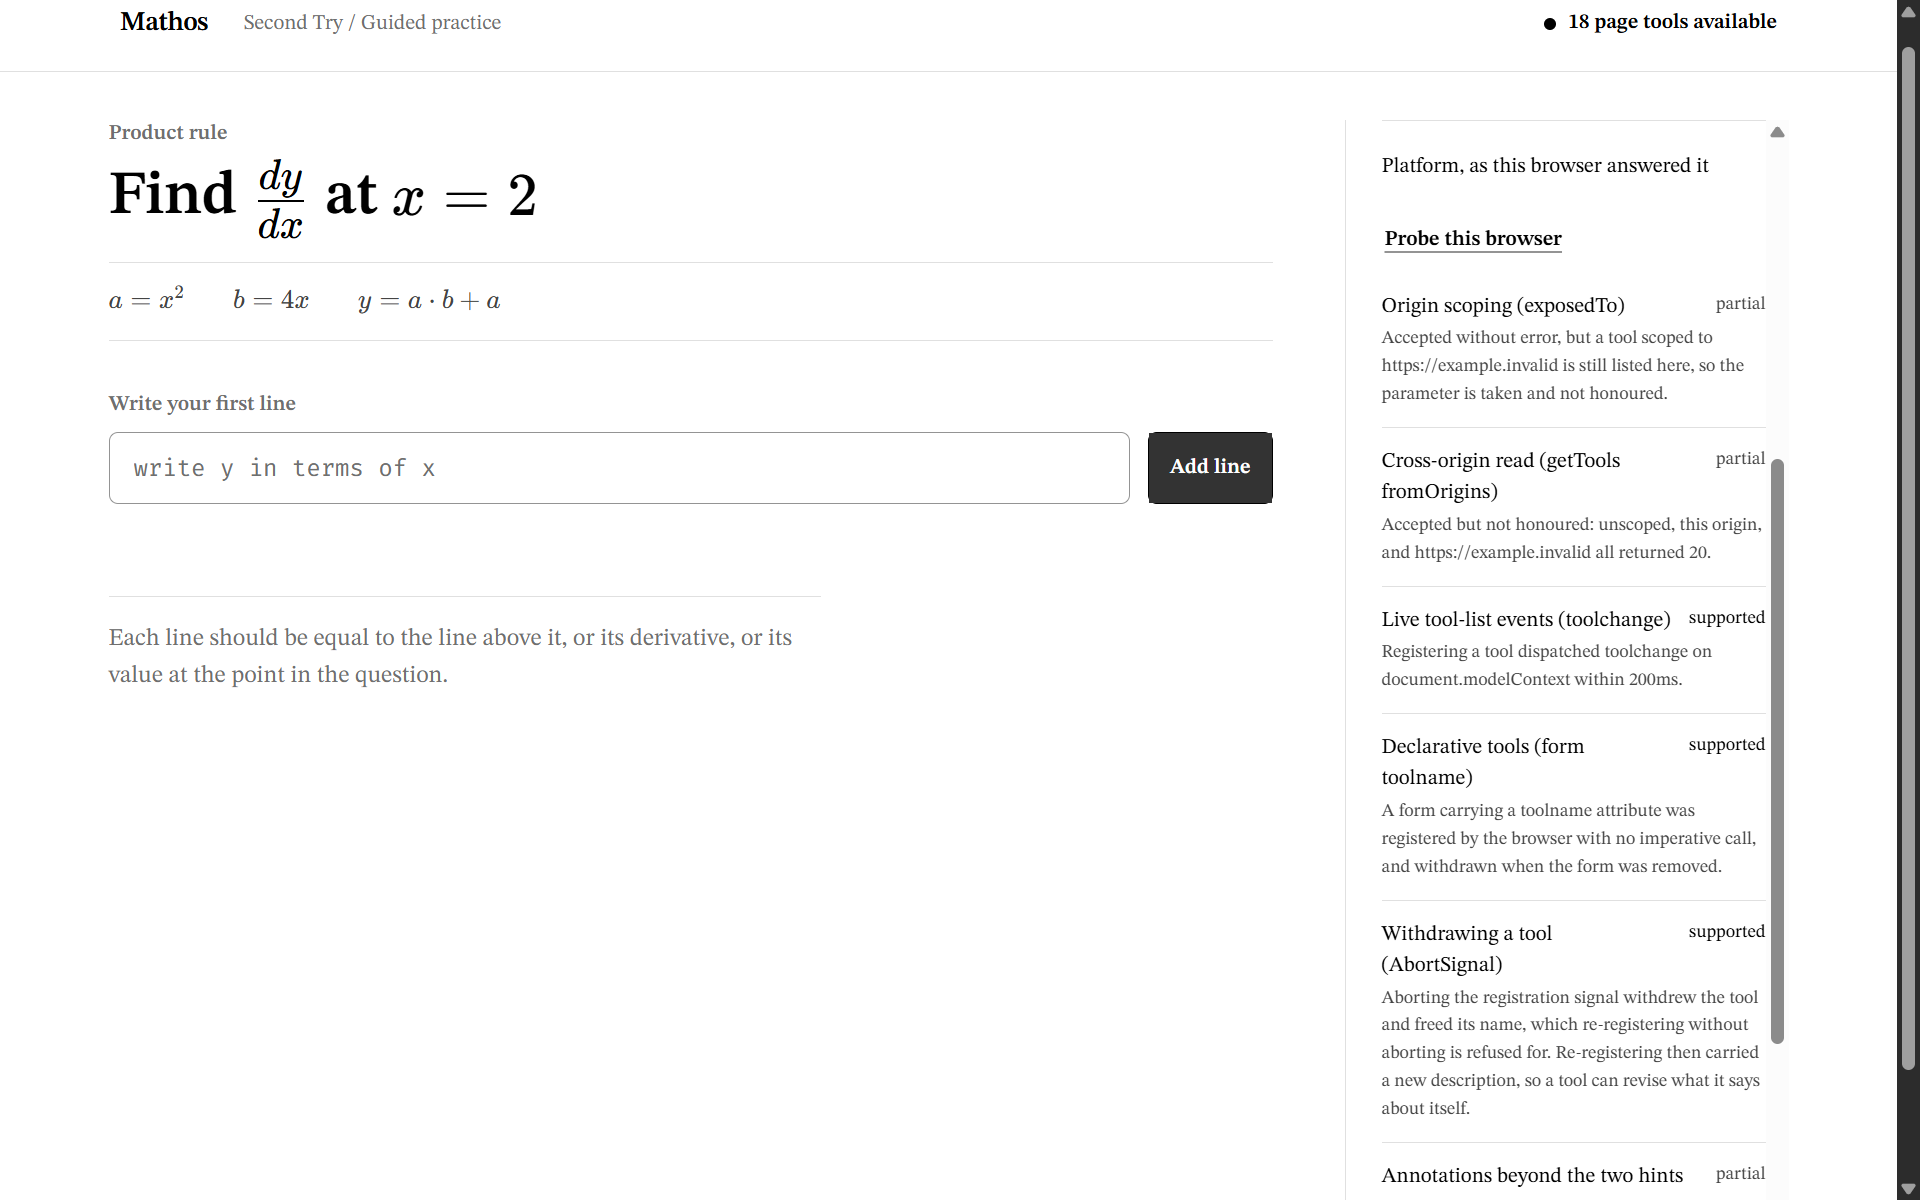
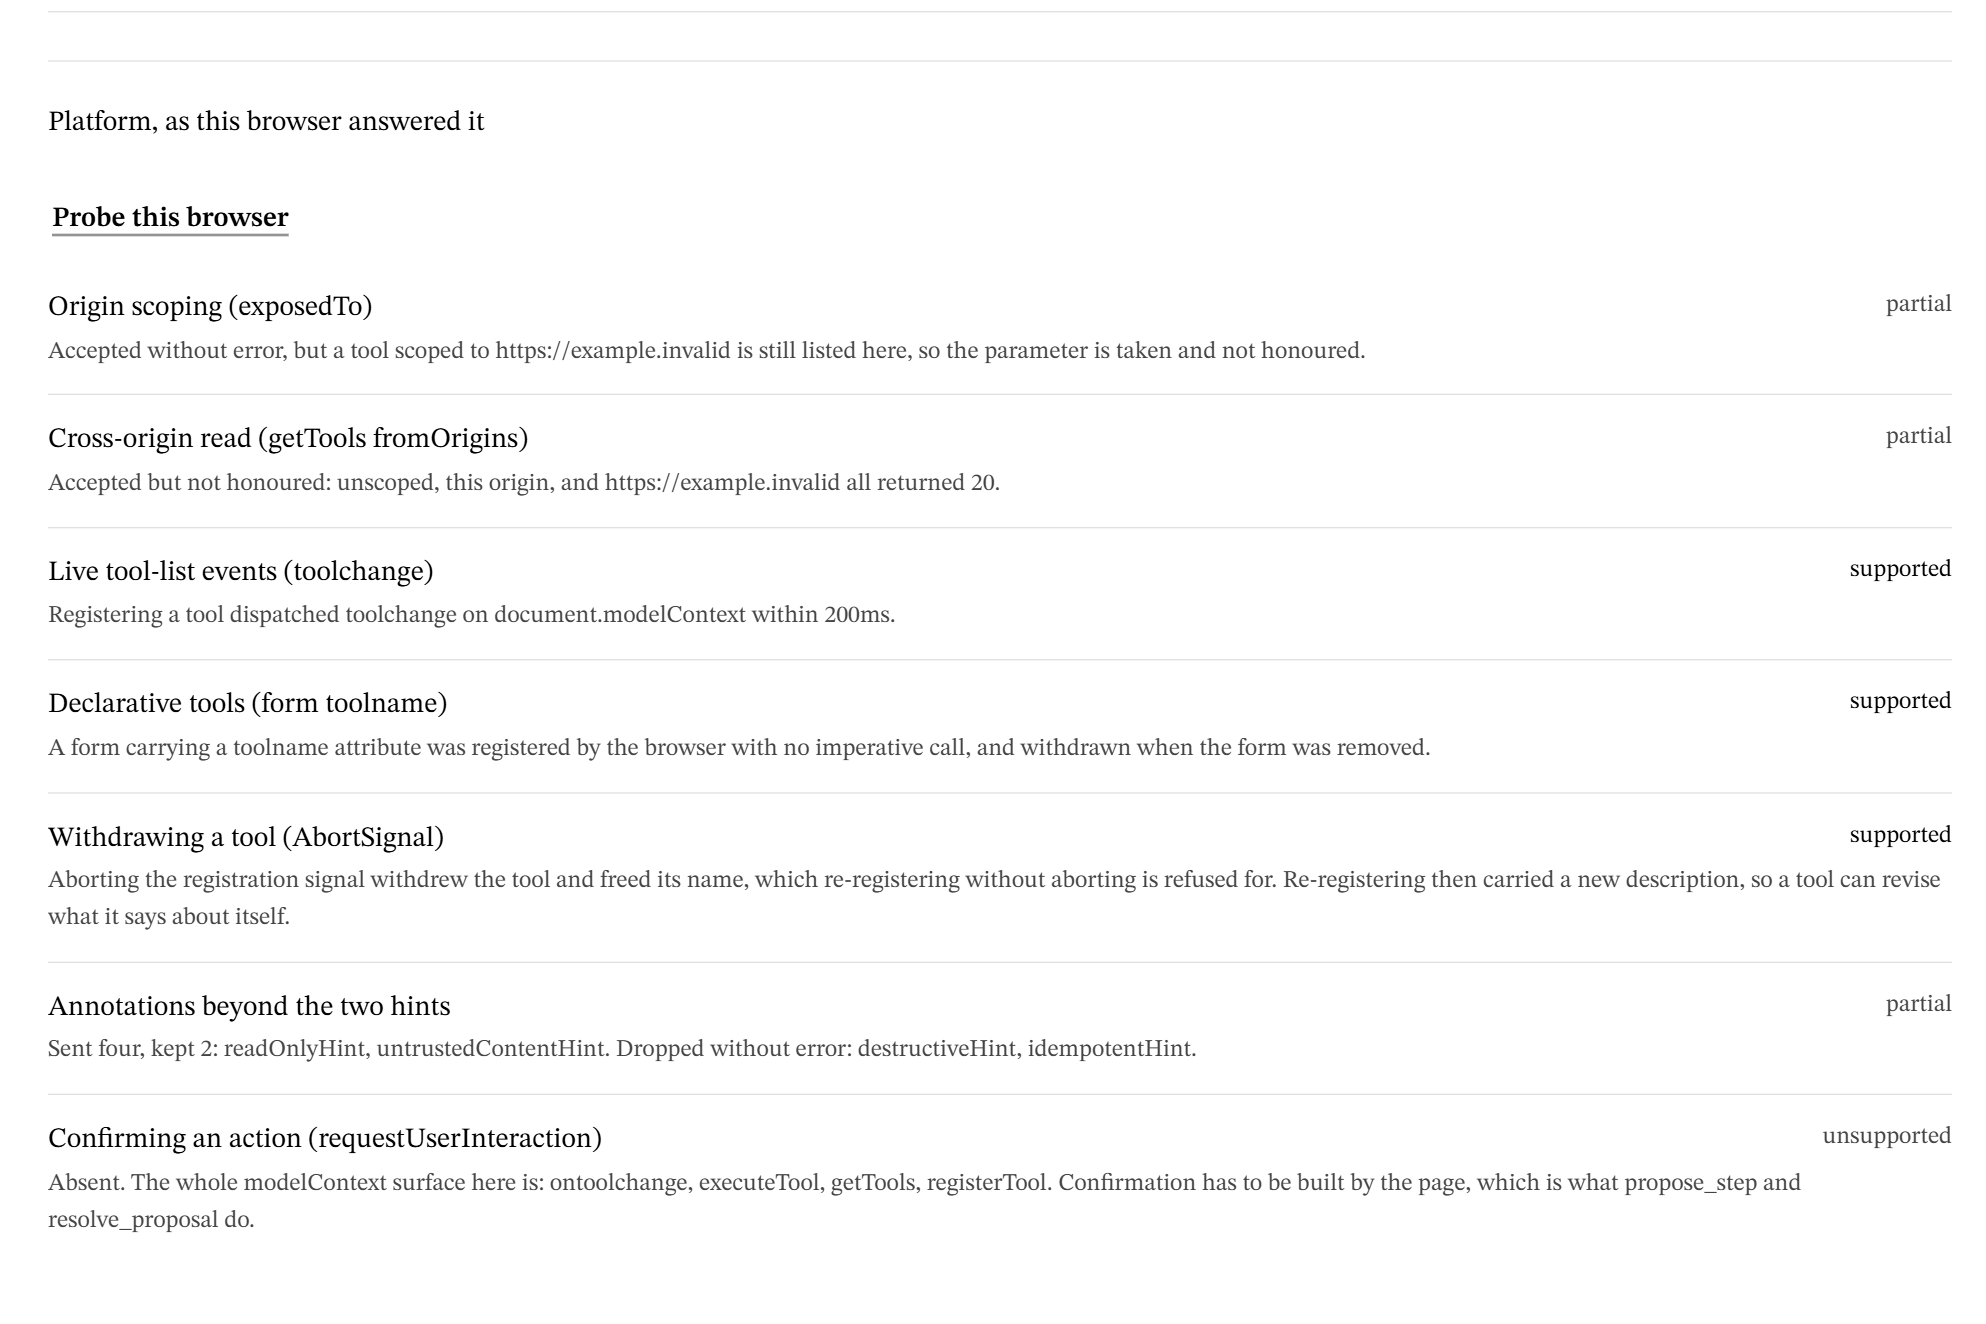
docs: the platform screenshot only showed six of the seven verdicts
The README's alt text said "seven WebMCP features" and the caption said seven.
The image showed six, with the seventh — requestUserInteraction, the unsupported
one, and the most interesting of the set — below the fold. Half the frame was an
empty scratchpad.

Recaptured on the production build at a width where the console lays out
full-bleed, so all seven rows and their observations fit in one legible landscape
frame: the two Chrome accepts and does not honour, the three it supports, the
partial annotations, and Absent for requestUserInteraction with the reason. 1986
x1324, 3:2, so it also works as a Devpost gallery image.

Caption now says what the picture shows, including the primitive that is not on
the prototype at all.

Claude-Session: https://claude.ai/code/session_015G2oVXkFL3mF8x7J5ZtG24

diff --git a/README.md b/README.md
@@ -472,8 +472,9 @@ node scripts/console-watch.mjs
 ![The Agent Console after pressing Probe this browser: seven WebMCP features with a status and the observation behind each, including two Chrome accepts and does not honour](docs/images/platform-probe.png)
 
 *Press **Probe this browser** and the page tells you what your browser actually did with
-seven WebMCP features — including the two it accepts and silently ignores. Nothing there
-is read from a table.*
+seven WebMCP features — including the two it accepts and silently ignores, and the one
+that is not on the prototype at all. Nothing there is read from a table; every line is the
+observation the probe made, in this browser, a moment before it was rendered.*
 
 ---
 
